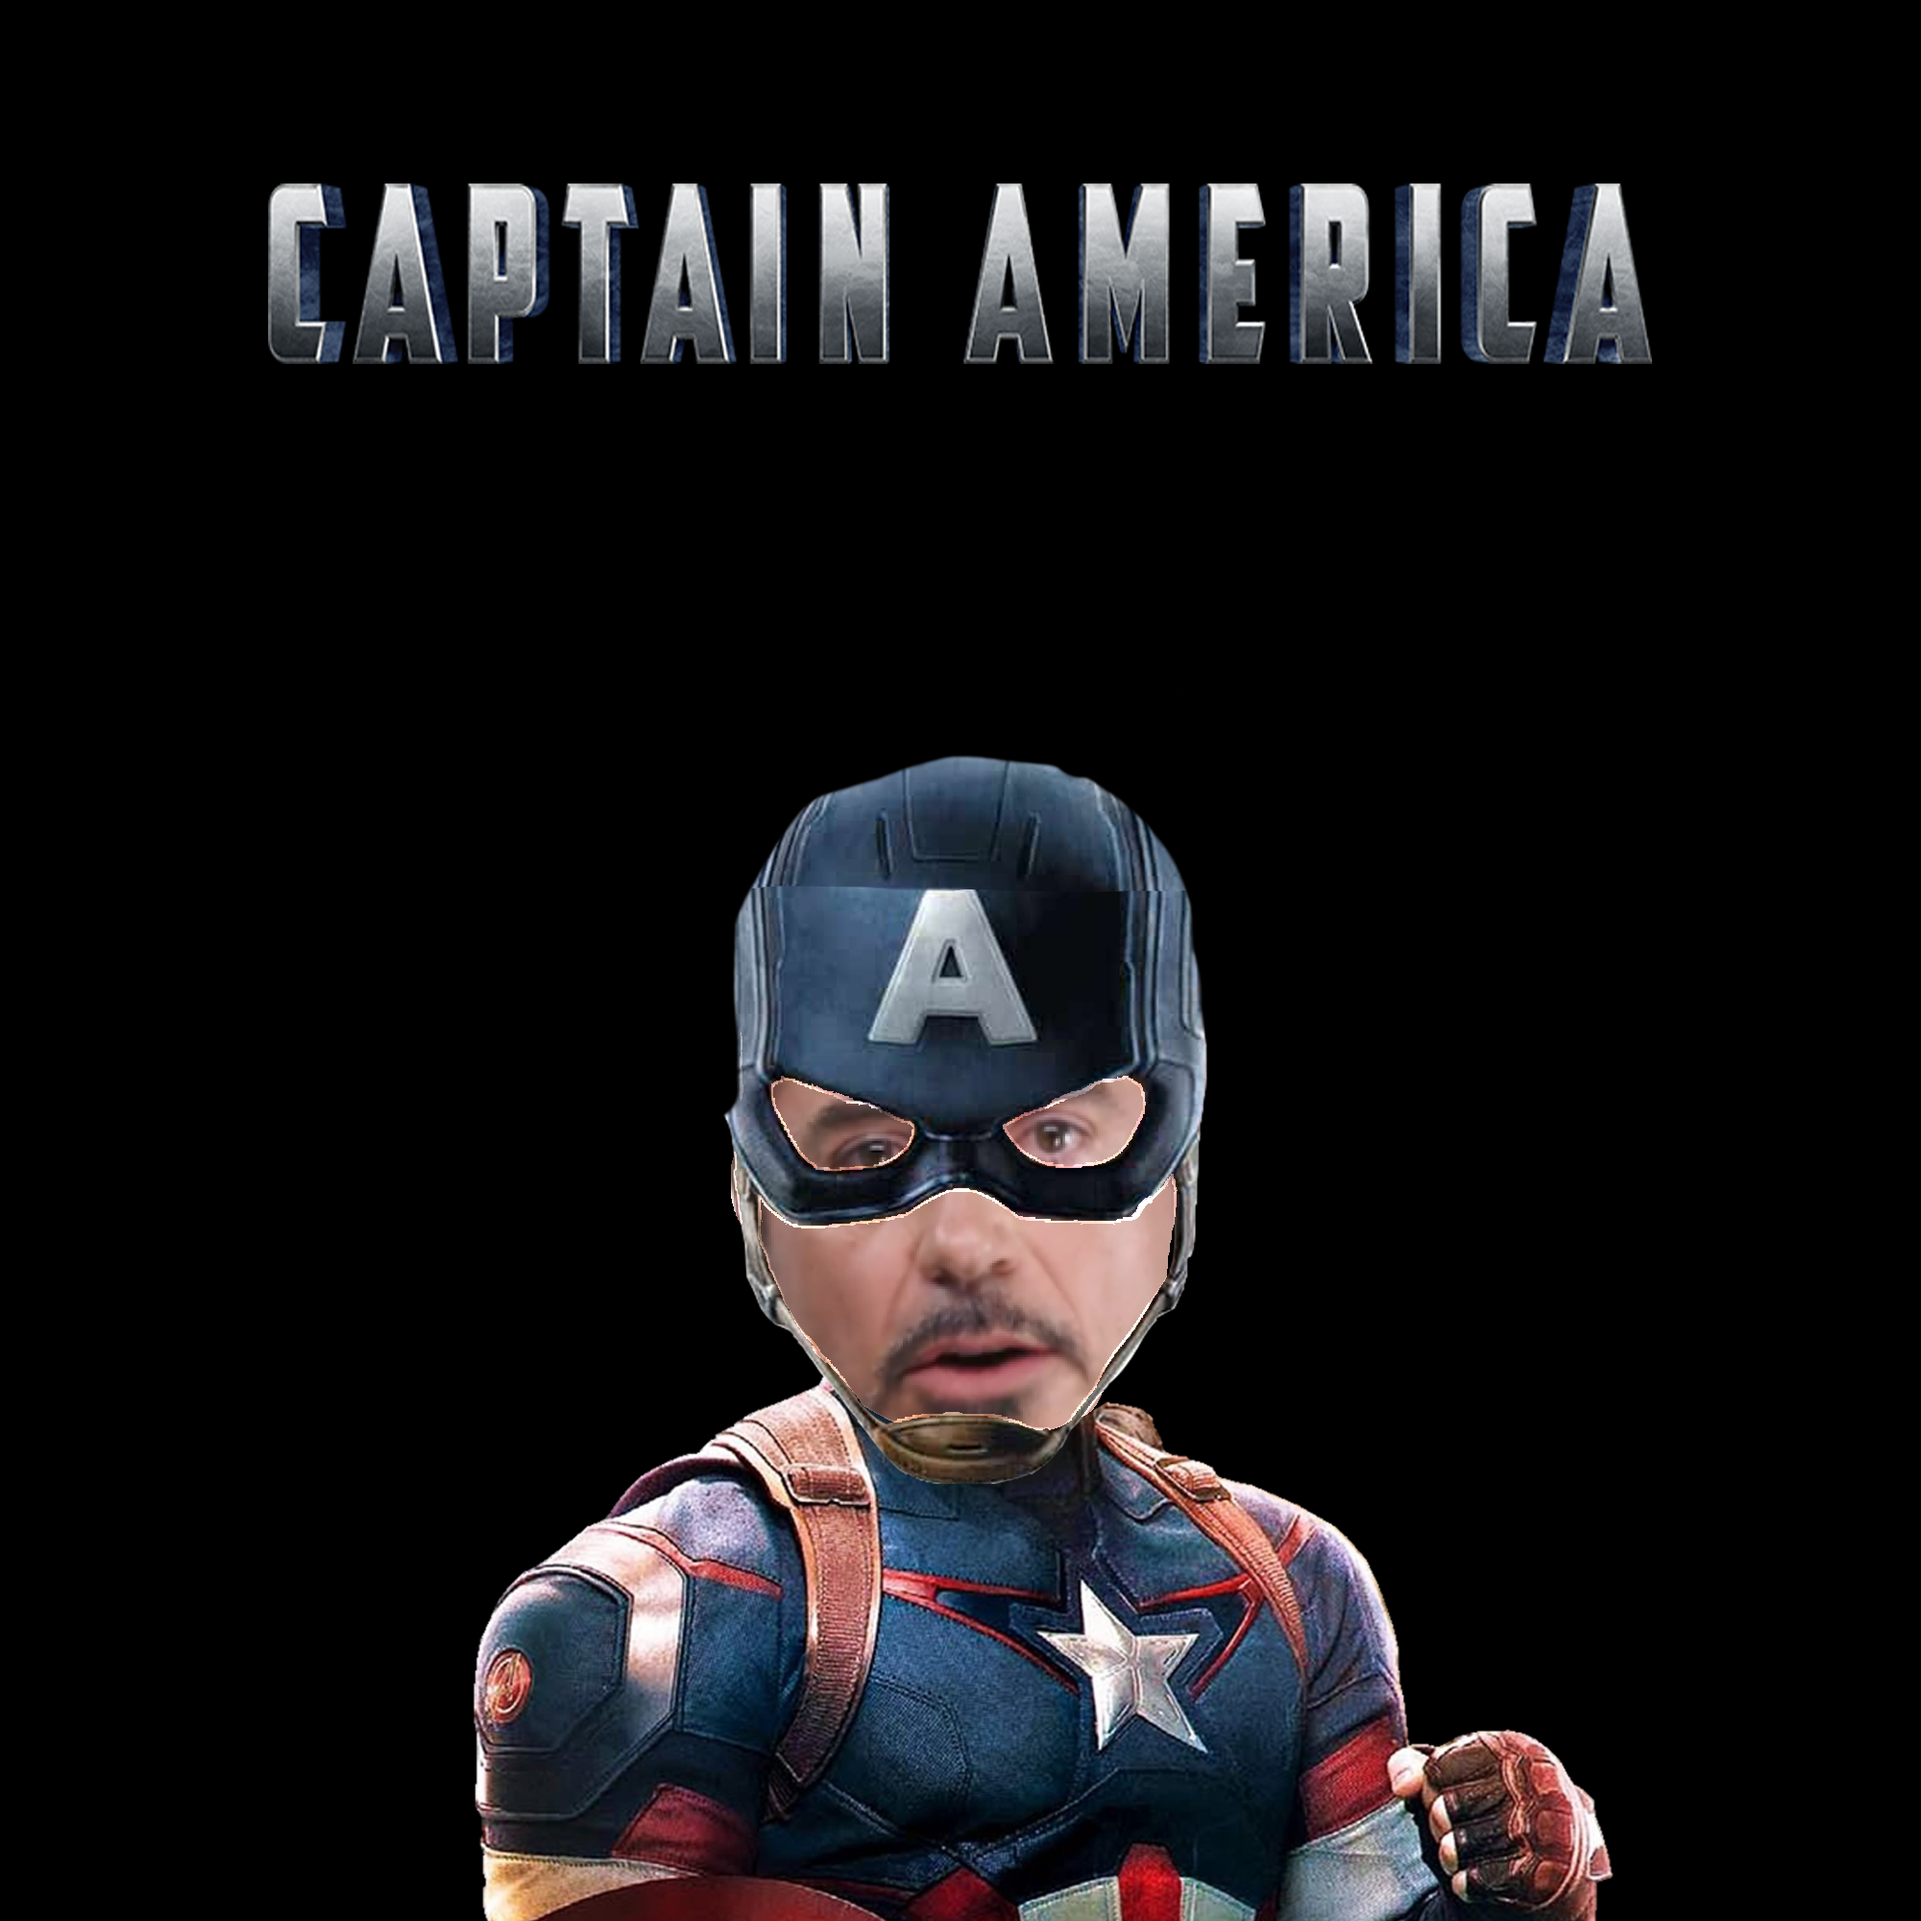
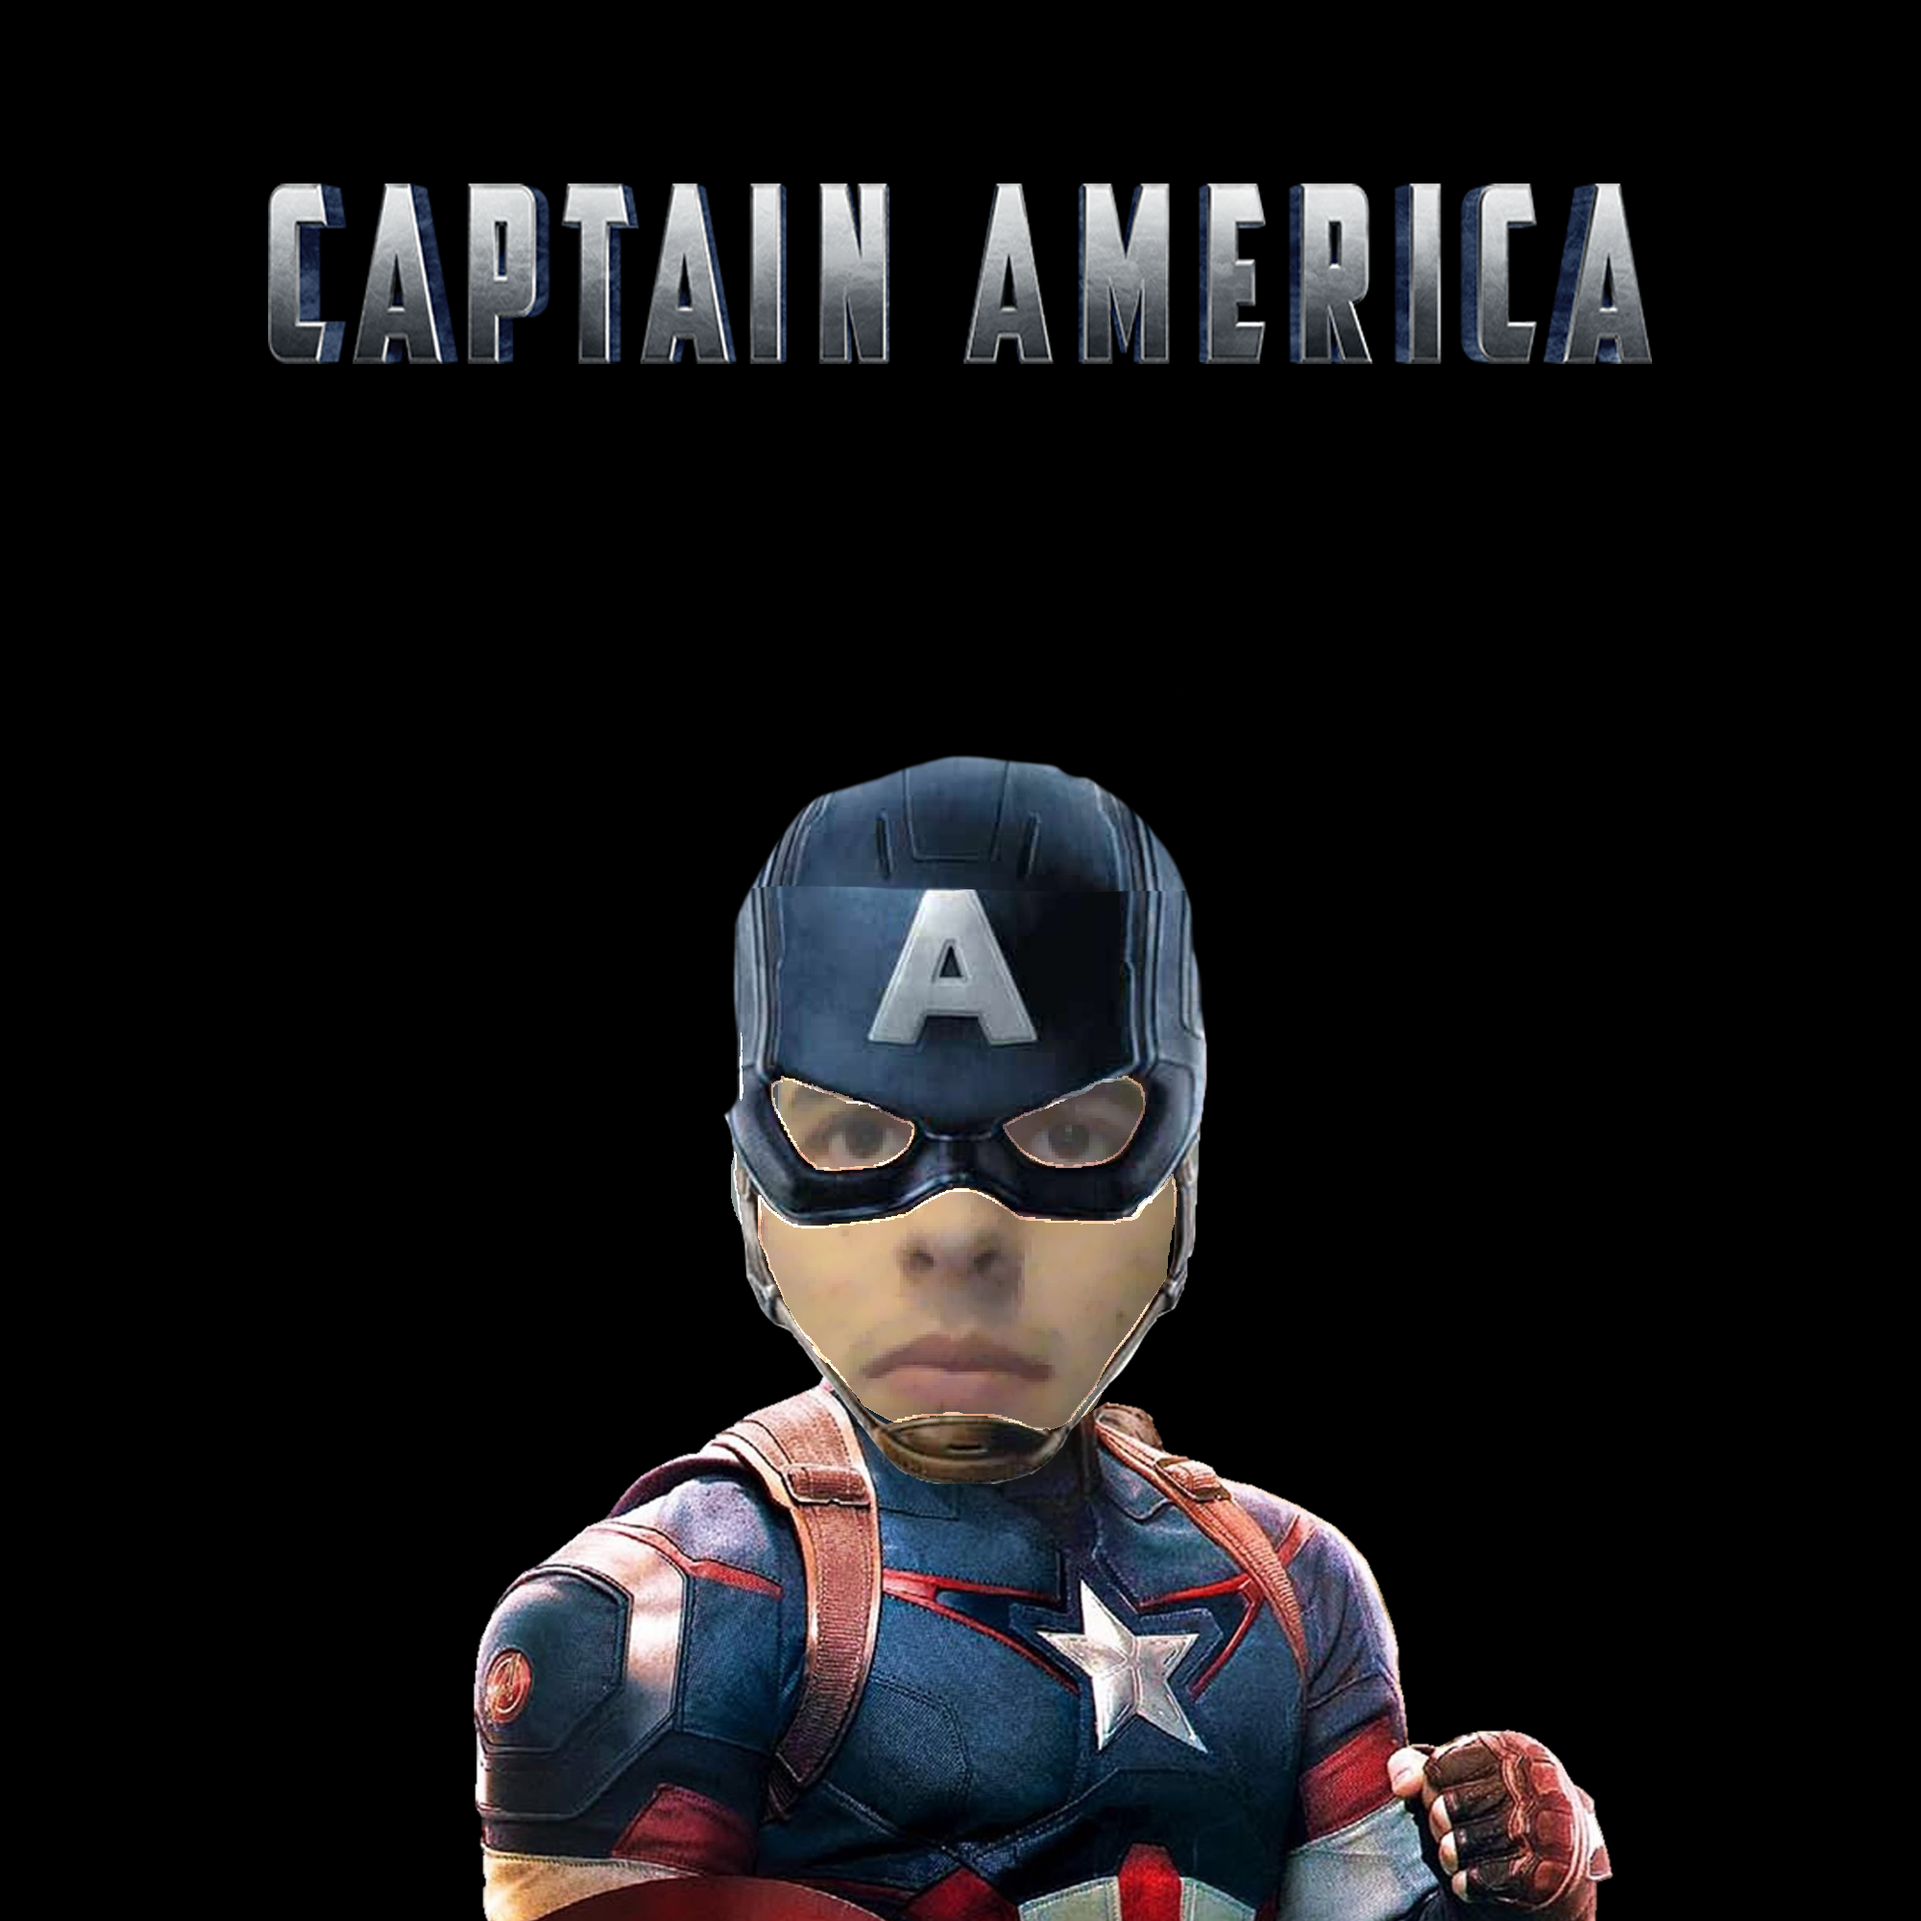
Quiz, respostas, photos fufando

Changed region(s): [[0.372, 0.558, 0.62, 0.744]]

diff --git a/templates/QuizFinal.html b/templates/QuizFinal.html
@@ -1,13 +1,13 @@
 <html> <head><link rel="stylesheet" type="text/css" href="style/style.css"><link href="https://fonts.googleapis.com/css?family=Marvel" rel="stylesheet"></head>
 <center><br><body bgcolor="#091C4B"><font color="white"><h1>Quiz</h1>
-<form name="send-form" class="send-form" method="POST" action="/seuquiz"><label><font color="white">jkdfnvjncjd</label><br><br> 
-<label class="container">1<input type="radio" name="jkdfnvjncjd" value="0" required><span class="checkmark"/></label><br> 
+<form name="send-form" class="send-form" method="GET" action="/seuquiz"><label><font color="white">Isso funciona?</label><br><br> 
+<label class="container">ss<input type="radio" name="Isso funciona?" value="0" required><span class="checkmark"/></label><br> 
   <br>
-<label class="container">2<input type="radio" name="jkdfnvjncjd" value="1" required><span class="checkmark"/></label><br> 
+<label class="container">nn<input type="radio" name="Isso funciona?" value="1" required><span class="checkmark"/></label><br> 
   <br>
-<label><font color="white">njecnlknorexic</label><br><br> 
-<label class="container">1<input type="radio" name="njecnlknorexic" value="0" required><span class="checkmark"/></label><br> 
+<label><font color="white">Se funcionar vai ser fudido?</label><br><br> 
+<label class="container">ss<input type="radio" name="Se funcionar vai ser fudido?" value="0" required><span class="checkmark"/></label><br> 
   <br>
-<label class="container">1<input type="radio" name="njecnlknorexic" value="1" required><span class="checkmark"/></label><br> 
+<label class="container">nn<input type="radio" name="Se funcionar vai ser fudido?" value="1" required><span class="checkmark"/></label><br> 
   <br>
-<button class="a" type="sumbit">OK</button></form></body></html>
+</body></html>

diff --git a/desoft_projeto_final_flask.py b/desoft_projeto_final_flask.py
@@ -8,7 +8,6 @@ import funcao as f
 import maxkey as m
 import idade as anos
 import img_mail as mail
-#import Photos as p
 import cv2
 import json
 from random import randint
@@ -55,10 +54,13 @@ def quiz():
         print(dicionario)
         print(vencedor)
 
-        dicjson["nome"] = request.form["nome"]
-        dicjson["vencedor"] = vencedor
-        dicjson["Qperg"]=0
-        dicjson["Qopc"]=0
+        with open('variaveis.json','r') as variaveis:
+            dicjson = json.loads(variaveis.read())
+            dicjson["nome"] = request.form["nome"]
+            dicjson["vencedor"] = vencedor
+            dicjson["Qperg"]=0
+            dicjson["Qopc"]=0
+            dicjson["contador"]=dicjson["contador"]
         with open('variaveis.json','w') as variaveis:
             variaveis.write(json.dumps(dicjson))
 
@@ -197,9 +199,12 @@ def criar2():
         for i in range(0,dicjson["Qperg"]):
             for a in range(0,dicjson["Qopc"]):
                 resp=request.form['resposta{}_{}'.format(i,a)]
-                listafinal.append(resp)
-        for i in listafinal:
-            dict_respostas[i]=0
+                lista=resp.split(",")
+                for j in lista:
+                    if j not in listafinal:
+                        listafinal.append(j)
+        for h in listafinal:
+            dict_respostas[h]=0
         with open('Respostas.json','w') as r:
             r.write(json.dumps(dict_respostas))
 
@@ -208,7 +213,7 @@ def criar2():
         with open('Quizfinal.txt','w') as cri:
             cri.write('<html> <head><link rel="stylesheet" type="text/css" href="style/style.css"><link href="https://fonts.googleapis.com/css?family=Marvel" rel="stylesheet"></head>\n')
             cri.write('<center><br><body bgcolor="#091C4B"><font color="white"><h1>Quiz</h1>\n')
-            cri.write('<form name="send-form" class="send-form" method="POST" action="/seuquiz">')
+            cri.write('<form name="send-form" class="send-form" method="GET" action="/seuquiz">')
             for i in range(0,dicjson["Qperg"]):
                 re_form=request.form['pergunta{}'.format(i)]
                 cri.write('<label><font color="white">{}</label><br><br> \n'.format(re_form))
@@ -216,7 +221,7 @@ def criar2():
                     re_form2=request.form['opcao{}_{}'.format(i,a)]
                     cri.write('<label class="container">{}<input type="radio" name="{}" value="{}" required><span class="checkmark"/></label><br> \n  '.format(re_form2,re_form,a))
                     cri.write('<br>\n')
-            cri.write('<button class="a" type="sumbit">OK</button></form>')
+            #cri.write('<button class="a" type="sumbit">OK</button></form>')
             cri.write('</body>')
             cri.write('</html>')
 
@@ -230,7 +235,7 @@ def criar2():
 
 @app.route("/seuquiz", methods=["GET","POST"])
 def seuquiz():
-    if request.method == "POST":
+    if request.method == "GET":
         return render_template("QuizFinal.html")
 
 

diff --git a/Photos.py b/Photos.py
@@ -6,14 +6,13 @@ import cv2
 import os
 import json
 
-#def overlay():
 
 with open('variaveis.json','r') as variaveis:
     dicjson = json.loads(variaveis.read())
     vingador = dicjson["vencedor"]
 
     cascadePath = os.path.join(os.path.expanduser("~"), "Downloads/opencv/sources/data/haarcascades/haarcascade_frontalface_default.xml")
-    vingadorPath = os.path.join(os.path.expanduser("~"), 'Documents/GitHub/Quiz_Avengers/photos\{}.png'.format(vingador)
+    vingadorPath = os.path.join(os.path.expanduser("~"), 'Documents/GitHub/Quiz_Avengers/photos/{}.png'.format(vingador))
 
     face_cascade = cv2.CascadeClassifier(cascadePath)
     f_image = cv2.imread(vingadorPath, -1)
@@ -33,8 +32,8 @@ with open('variaveis.json','r') as variaveis:
     padding_right = (b_size - f_size) / 2
 
 
-
-    cv_image = cv2.imread('/img/selfie.png')
+    selfiePath = os.path.join(os.path.expanduser("~"), 'Documents/GitHub/Quiz_Avengers/static/img/selfie.png')
+    cv_image = cv2.imread(selfiePath)
 
     faces = face_cascade.detectMultiScale(
                     cv_image,
@@ -59,8 +58,8 @@ with open('variaveis.json','r') as variaveis:
         roi_fg = cv2.bitwise_and(f_image, f_image, mask=f_mask)
         dst = cv2.add(roi_bg, roi_fg)
 
-
-        cv2.imwrite("/img/vingador.png", dst)
+        finalPath = os.path.join(os.path.expanduser("~"), 'Documents/GitHub/Quiz_Avengers/static/img/vingador.png')
+        cv2.imwrite(finalPath, dst)
         cv2.waitKey()
         cv2.destroyAllWindows()
         break
